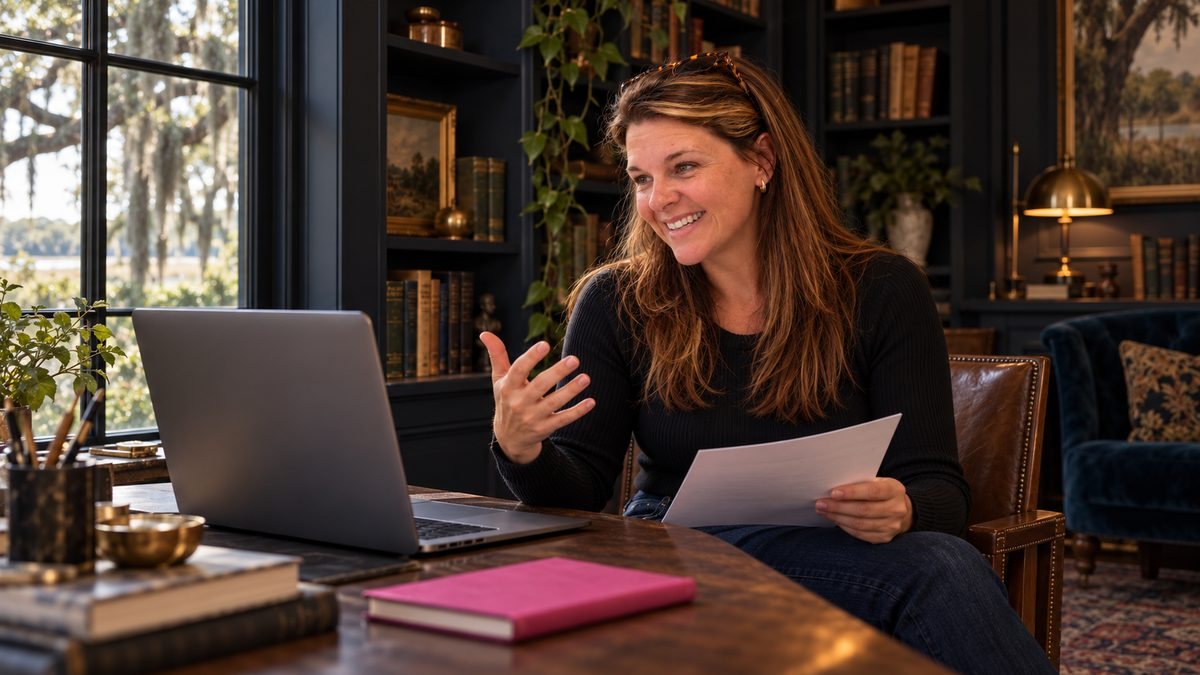
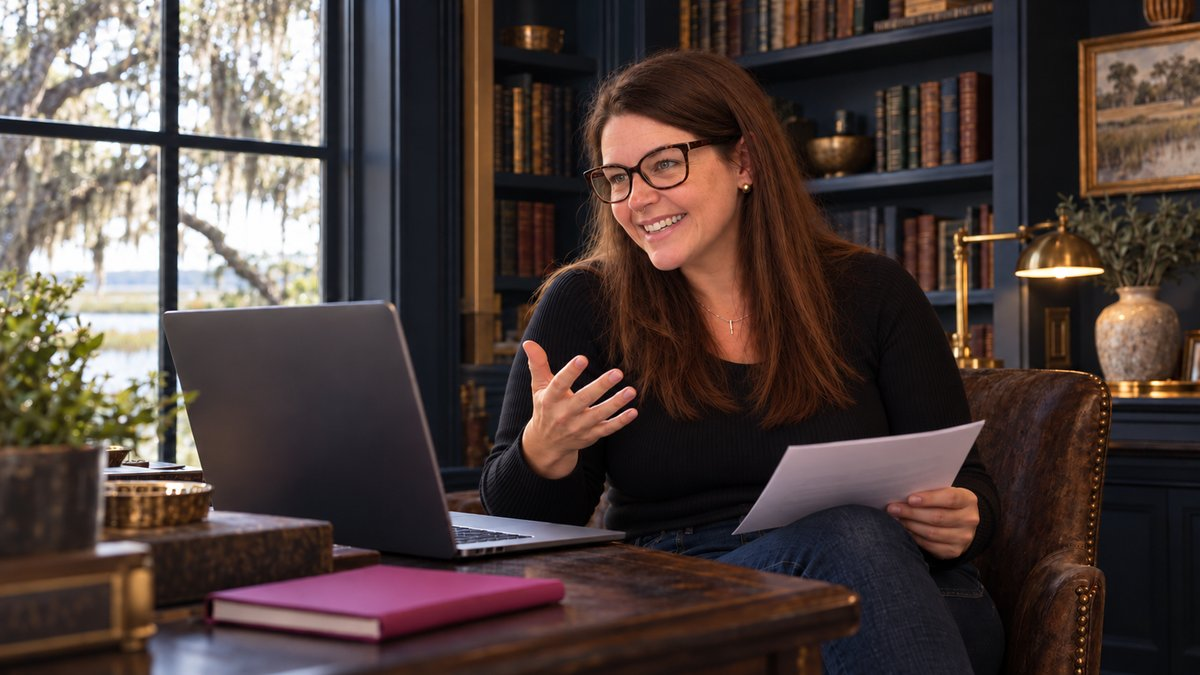
Swap in updated photos of Tara (teaching + about)
Claude-Session: https://claude.ai/code/session_01CTVbYhTARWHvxQX1ys7QWS

diff --git a/deep-dives/index.html b/deep-dives/index.html
@@ -201,7 +201,7 @@ footer{border-top:1px solid var(--snow);padding:22px 0 40px;font-size:14px;color
     <h2 id="dd-title">Eight live sessions for the legal questions that show up once clients do.</h2>
     <p class="lede">Each one takes a topic from the Dec 1 training and goes an hour deeper, with real examples and the questions to ask before you sign or post. Legal education only.</p>
 
-    <img class="series__img" src="/assets/img/pm-05-teaching.jpg" alt="A woman speaking to a laptop on a video call, a printed page in her hand, in a library with deep navy shelves" width="1200" height="675" loading="lazy">
+    <img class="series__img" src="/assets/img/pm-05-teaching.jpg" alt="Tara Nixon speaking to a laptop on a video call, a printed page in her hand, in a library with deep navy shelves" width="1200" height="675" loading="lazy">
 
     <ol class="dives">
       <li><h3>Refunds and Cancellations</h3><p class="promise">Write a refund policy your sales page agrees with.</p><p>Most refund fights start when the sales page promises one thing and the policy says another. We'll read examples side by side, then go through what to decide before you write your own, from deadlines and payment plans to the session you have to cancel yourself.</p></li>

diff --git a/index.html b/index.html
@@ -45,7 +45,7 @@
 <p>One hour on Google Meet, part of the Legal Education Series with Calling to Clarity. The session is legal education only.</p>
 <div><a class="btn" href="https://callingtoclarity.com/webinars/legal-must-dos/">Save my seat</a></div>
 </div>
-<div class="webinar-ad__photo"><img src="assets/img/pm-05-teaching.jpg" alt="A woman speaking to a laptop on a video call, a printed page in her hand, in a library with deep navy shelves" width="1200" height="675" loading="lazy"></div>
+<div class="webinar-ad__photo"><img src="assets/img/pm-05-teaching.jpg" alt="Tara Nixon speaking to a laptop on a video call, a printed page in her hand, in a library with deep navy shelves" width="1200" height="675" loading="lazy"></div>
 </div></section>
 
 <section class="section section--white"><div class="wrap stack gap-28">
